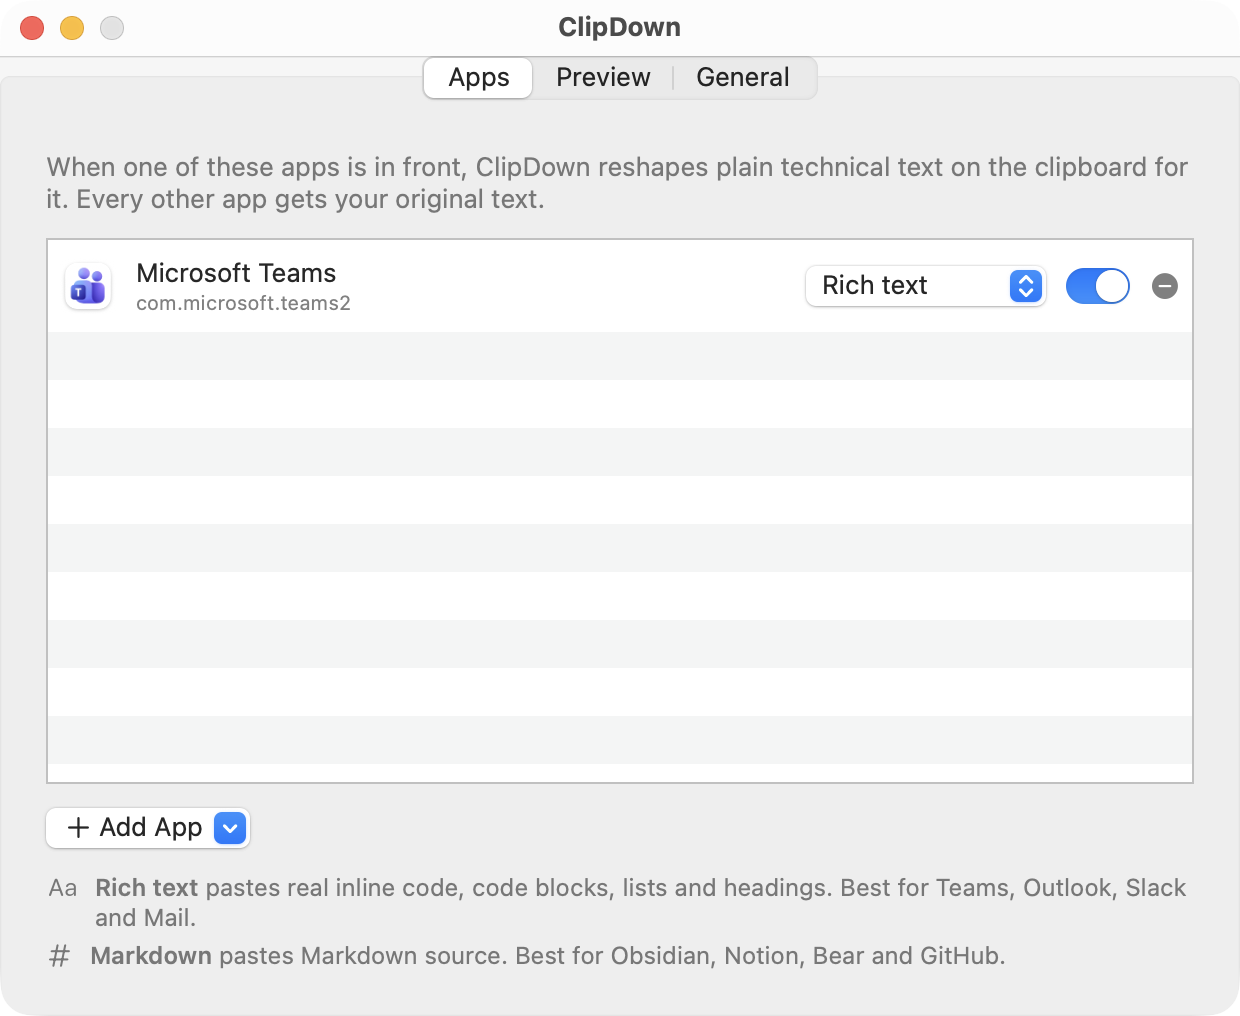
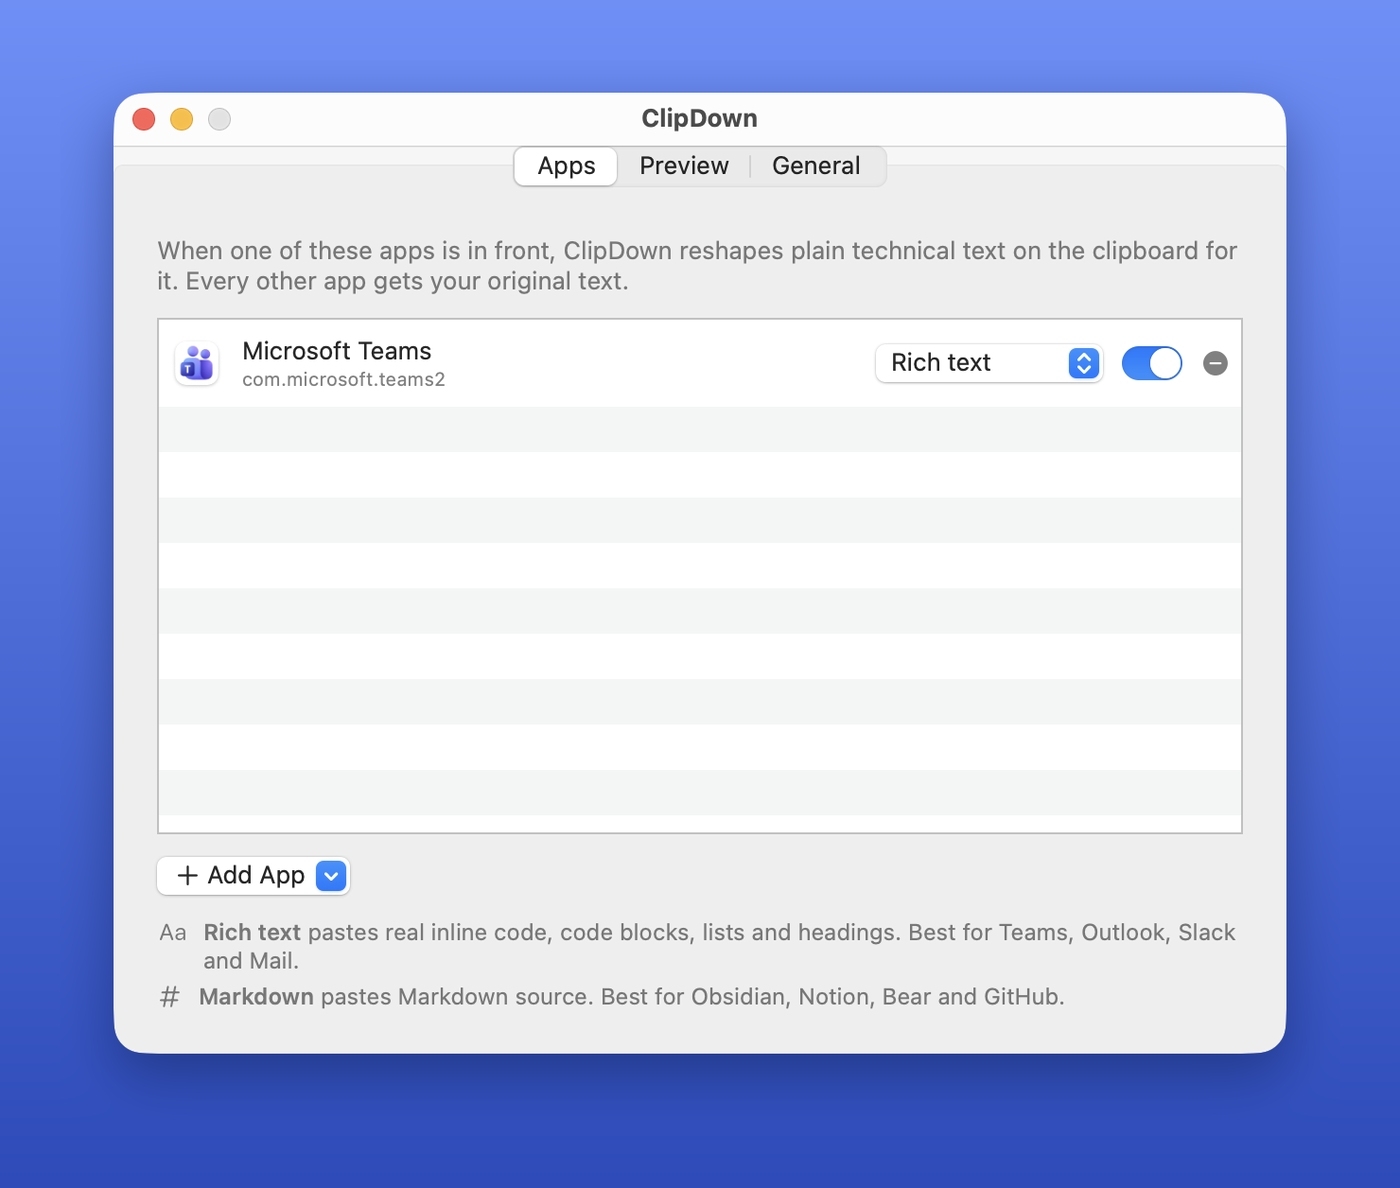
Keep blank lines between paragraphs when rendering, frame README screenshots
Teams and NSAttributedString ignore paragraph margins, so a blank line in
the source now renders as an explicit empty line.

diff --git a/Sources/ClipDownCore/Renderer.swift b/Sources/ClipDownCore/Renderer.swift
@@ -13,9 +13,18 @@ public enum Renderer {
         var paragraph: [String] = []
         var lists: [(tag: String, indent: Int)] = []
         var i = 0
+        // Chat apps (Teams) and NSAttributedString ignore paragraph margins,
+        // so a blank line in the source becomes an explicit empty line.
+        var blankPending = false
+
+        func spaceIfNeeded() {
+            if blankPending, !out.isEmpty { out += "<p><br></p>" }
+            blankPending = false
+        }
 
         func flushParagraph() {
             guard !paragraph.isEmpty else { return }
+            spaceIfNeeded()
             out += "<p>" + paragraph.map(inline).joined(separator: "<br>") + "</p>"
             paragraph = []
         }
@@ -42,6 +51,7 @@ public enum Renderer {
                 }
                 i += 1
                 let cls = lang.isEmpty ? "" : " class=\"language-\(escape(lang))\""
+                spaceIfNeeded()
                 out += "<pre><code\(cls)>" + escape(body.joined(separator: "\n")) + "</code></pre>"
                 continue
             }
@@ -53,6 +63,7 @@ public enum Renderer {
                 if next.map({ Converter.listItem.firstMatch($0) == nil && !$0.hasPrefix(" ") }) ?? true {
                     closeLists()
                 }
+                blankPending = true
                 i += 1
                 continue
             }
@@ -62,6 +73,8 @@ public enum Renderer {
                 let indent = (m[1] ?? "").count
                 let tag = (m[2] ?? "-").first!.isNumber ? "ol" : "ul"
                 closeLists(above: indent)
+                // Items of a list already open stay tight, even across blank lines.
+                if lists.isEmpty { spaceIfNeeded() } else { blankPending = false }
                 if let top = lists.last, top.indent == indent {
                     if top.tag == tag {
                         out += "</li>"
@@ -91,6 +104,7 @@ public enum Renderer {
             if let m = heading.firstMatch(line) {
                 flushParagraph()
                 let level = min((m[1] ?? "#").count + 1, 4)
+                spaceIfNeeded()
                 out += "<h\(level)>" + inline(m[2] ?? "") + "</h\(level)>"
                 i += 1
                 continue
@@ -104,12 +118,14 @@ public enum Renderer {
                     quoted.append(String(q.hasPrefix(" ") ? q.dropFirst() : q))
                     i += 1
                 }
+                spaceIfNeeded()
                 out += "<blockquote>" + html(quoted.joined(separator: "\n")) + "</blockquote>"
                 continue
             }
 
             if trimmed.hasPrefix("|"), i + 1 < lines.count, tableRule.matches(lines[i + 1]) {
                 flushParagraph()
+                spaceIfNeeded()
                 out += "<table><thead><tr>" + cells(trimmed).map { "<th>\(inline($0))</th>" }.joined() + "</tr></thead><tbody>"
                 i += 2
                 while i < lines.count, lines[i].trimmingCharacters(in: .whitespaces).hasPrefix("|") {

diff --git a/Tests/ClipDownCoreTests/RendererTests.swift b/Tests/ClipDownCoreTests/RendererTests.swift
@@ -3,7 +3,8 @@ import Testing
 
 @Suite struct RendererTests {
     @Test func paragraphsKeepLineBreaks() {
-        #expect(Renderer.html("one\ntwo\n\nthree") == "<p>one<br>two</p><p>three</p>")
+        #expect(Renderer.html("one\ntwo\n\nthree") == "<p>one<br>two</p><p><br></p><p>three</p>")
+        #expect(Renderer.html("text\n\n```\ncode\n```\nafter") == "<p>text</p><p><br></p><pre><code>code</code></pre><p>after</p>")
     }
 
     @Test func inlineFormatting() {
@@ -30,7 +31,7 @@ import Testing
     }
 
     @Test func listSurvivesBlankLineBetweenItems() {
-        #expect(Renderer.html("- a\n\n- b\n\nafter") == "<ul><li>a</li><li>b</li></ul><p>after</p>")
+        #expect(Renderer.html("- a\n\n- b\n\nafter") == "<ul><li>a</li><li>b</li></ul><p><br></p><p>after</p>")
     }
 
     @Test func headingsQuotesTables() {

diff --git a/Sources/clipdown/SettingsView.swift b/Sources/clipdown/SettingsView.swift
@@ -236,7 +236,7 @@ struct PreviewTab: View {
     static func rendered(_ html: String) -> AttributedString {
         let styled = html.replacingOccurrences(
             of: "<head>",
-            with: "<head><style>body{font:13px -apple-system;color:\(NSColor.labelColor.cssHex)} p,ul,ol,pre{margin:0 0 8px} code,pre{font:12px ui-monospace,Menlo;background-color:rgba(127,127,127,0.16)}</style>")
+            with: "<head><style>body{font:13px -apple-system;color:\(NSColor.labelColor.cssHex)} p,ul,ol,pre{margin:0} code,pre{font:12px ui-monospace,Menlo;background-color:rgba(127,127,127,0.16)}</style>")
         guard let data = styled.data(using: .utf8),
               let ns = try? NSAttributedString(data: data, options: [
                   .documentType: NSAttributedString.DocumentType.html,
